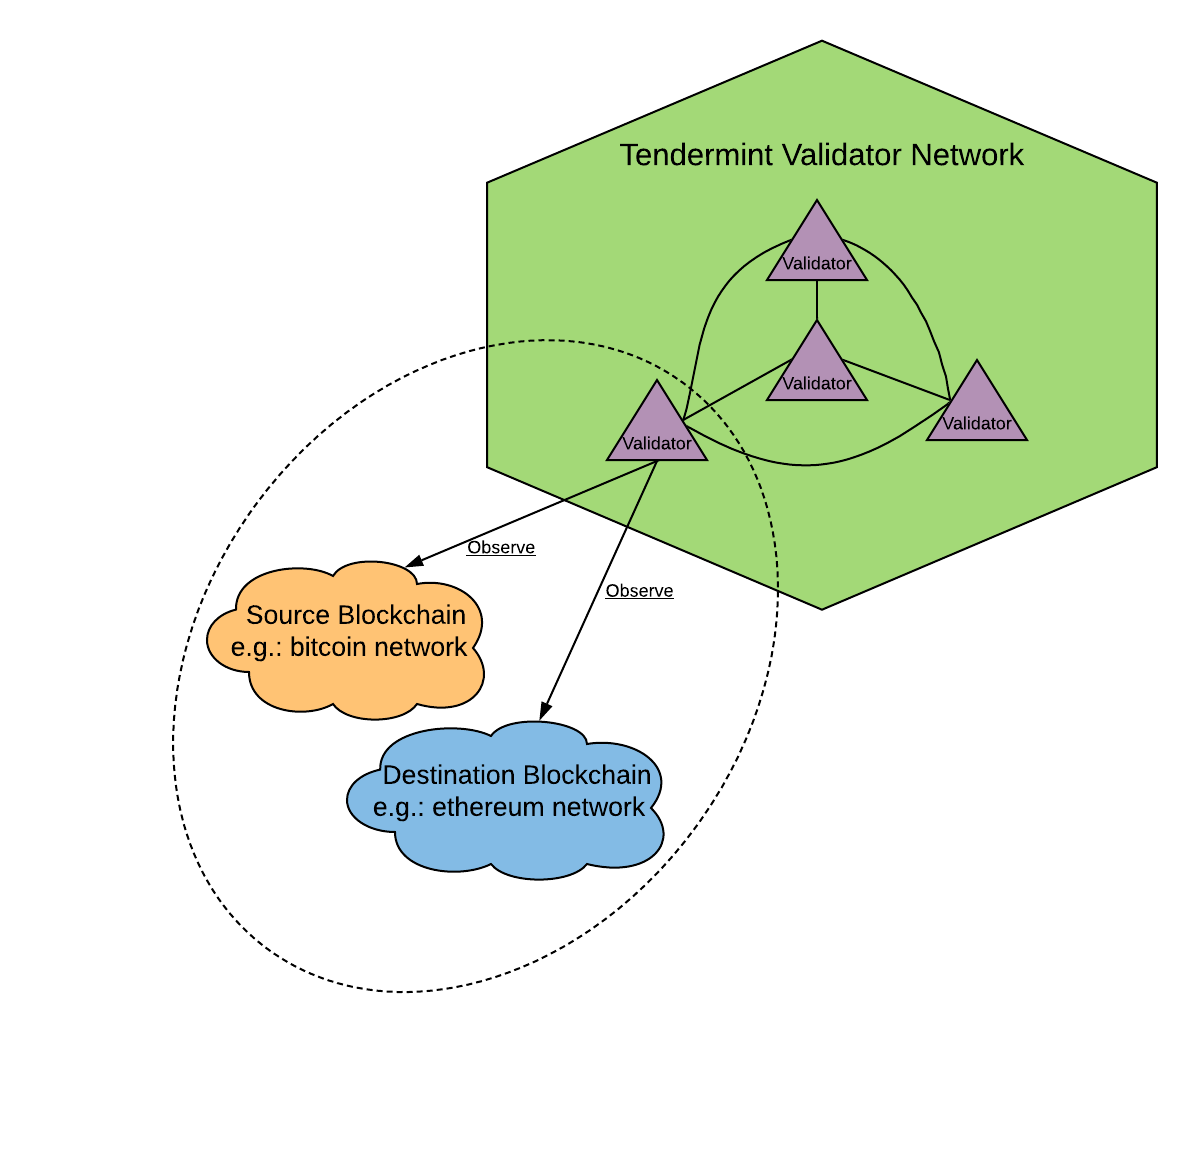
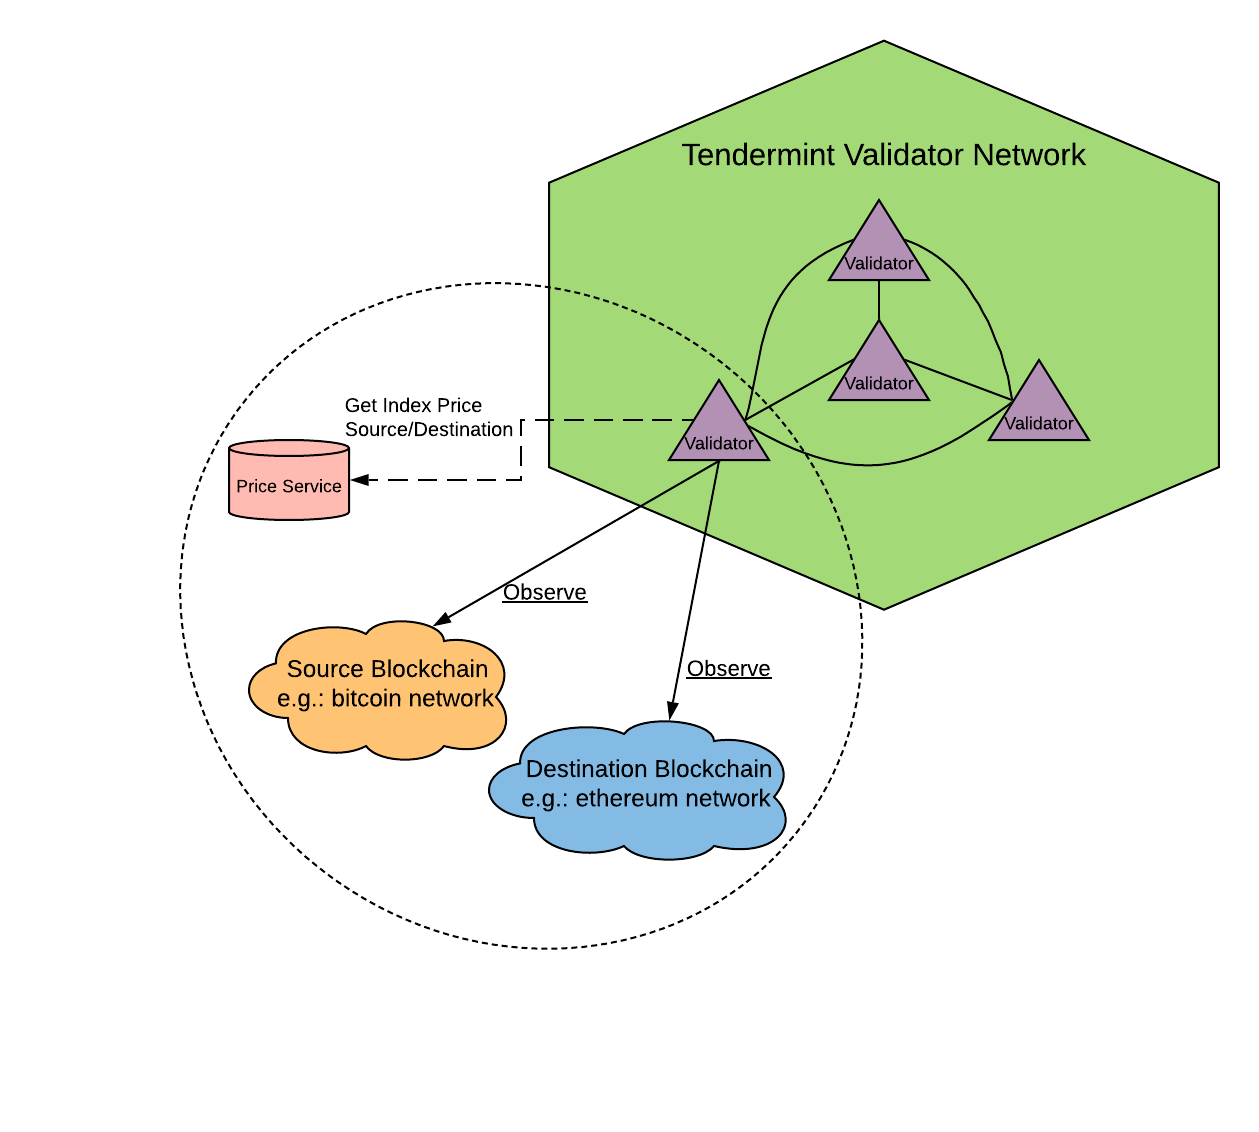
GitBook: [master] one page and one asset modified

diff --git a/technical/detailed.md b/technical/detailed.md
@@ -4,19 +4,19 @@ description: детальное описание системы
 
 # Detailed Schemes
 
-## Общая система работы системы
+## General Exchange Scheme
 
 
 
 ![&#x41E;&#x431;&#x449;&#x430;&#x44F; &#x441;&#x438;&#x441;&#x442;&#x435;&#x43C;&#x430; &#x440;&#x430;&#x431;&#x43E;&#x442;&#x44B; &#x441;&#x438;&#x441;&#x442;&#x435;&#x43C;&#x44B;](../.gitbook/assets/main-scheme.png)
 
-Система построена на взаимодействии всеми участниками системы через Ethereum смарт-контакты. 
+Система построена на взаимодействии между всеми участниками системы через Ethereum смарт-контакты. 
 
 * Клиент создает запрос на совершение обмена \(аукцион\)
 * Исполнители конкурируя между собой получают возможность совершить обмен
 * Сеть валидаторов следит за верным совершение сделки
 
-## Принцип работы сети валидаторов
+## Validator Network Scheme
 
 
 
@@ -24,19 +24,28 @@ description: детальное описание системы
 
 ![&#x41F;&#x440;&#x438;&#x43D;&#x446;&#x438;&#x43F; &#x440;&#x430;&#x431;&#x43E;&#x442;&#x44B; &#x441;&#x435;&#x442;&#x438; &#x432;&#x430;&#x43B;&#x438;&#x434;&#x430;&#x442;&#x43E;&#x440;&#x43E;&#x432;](../.gitbook/assets/tendermint.png)
 
-[Сеть валидаторов](entities.md#validators-network) реализована на Tendermint протоколе. Для валидации используется алгоритм BFT \([Byzantine fault tolerance](https://en.wikipedia.org/wiki/Byzantine_fault)\). Каждый валидатор наблюдает за всеми блокчейнами между которыми возможен обмен токенов. Для корректного наблюдения за блокчейном достаточно использовать две функции: высота и информацию о транзакции. Для завершения транзакции сеть валидаторов должна 
+Сеть валидаторов реализована на Tendermint протоколе. Для валидации используется алгоритм BFT \(Byzantine fault tolerance\). Каждый валидатор наблюдает за всеми блокчейнами между которыми возможен обмен токенов. Для корректного наблюдения за блокчейном достаточно использовать две функции: высота и информацию о транзакции. Для завершения транзакции сеть валидаторов должна проверить состояния source and destination blockchain и что отношение source токен к destination токен соответствует индексной цене на данный момент.
 
-## Упрощенная схема совершения обмена
+{% hint style="info" %}
+Подробнее про [сеть валидаторов](entities.md#validators-network)
+{% endhint %}
+
+## Simple exchange scheme
 
 ![&#x423;&#x43F;&#x440;&#x43E;&#x449;&#x435;&#x43D;&#x43D;&#x430;&#x44F; &#x441;&#x445;&#x435;&#x43C;&#x430; &#x441;&#x43E;&#x432;&#x435;&#x440;&#x448;&#x435;&#x43D;&#x438;&#x44F; &#x43E;&#x431;&#x43C;&#x435;&#x43D;&#x430;](../.gitbook/assets/simple-change.png)
 
-## Обмен с компенсацией клиенту
+1. Исполнитель блокирует свои средства в ETH на смарт-контакте обменника в страховом депозите. Сумма заблокированных средств должна превышать сумму обмена с учётом коэффициента коллитерации \(сейчас x1.2\)
+2. Клиент отправляет свои токены прямо на адрес Исполнителя. Если Исполнитель не выполнит свои обязательства клиенту будут начислена компенсация в виде всего заблокированного депозита Исполнителя
+3. После совершения обмена Исполнитель переводит Клиенту destination токен в соответствии с курсом обмена.
+4. Сеть валидаторов проверяет исполнение сделки и разблокирует страховой депозит Исполнителя.
+
+## Amends scheme
 
 ![&#x41E;&#x431;&#x43C;&#x435;&#x43D; &#x441; &#x43A;&#x43E;&#x43C;&#x43F;&#x435;&#x43D;&#x441;&#x430;&#x446;&#x438;&#x435;&#x439; &#x43A;&#x43B;&#x438;&#x435;&#x43D;&#x442;&#x443;](../.gitbook/assets/set-fine.png)
 
+В случаи если Исполнитель не произвёл обмен за установленное время или вернул Клиенту кол-во destination токенов не соответствующее индексу цены, сеть валидаторов выписывает штраф Исполнителю и компенсацию разницы в цене клиенту. Таким образом клиент всегда уверен что либо будет совершён обмен по наилучшей цене исполнения в данный момент времени. Либо он получит дополнительную компенсацию, которая покрывает разницу в цене между Индексной ценой и ценой обмена.
 
-
-## Последовательная схема взаимодействий между разными участниками системы
+## Sequence Diagram
 
 ![Sequence Diagram](https://lh4.googleusercontent.com/WiXEgiAO8WZR1Mk6xyR5IrcSE4-rpc8jnfZ6YANSBR-93zUpppMrHjvJ8GtJv0qCvwYHSH2NCz7VlbKrBCVnbWRjCAlKFjHhR8am4PR1rjlaxDH12zle13WIEccUlq5kbgbLmcTj)
 
